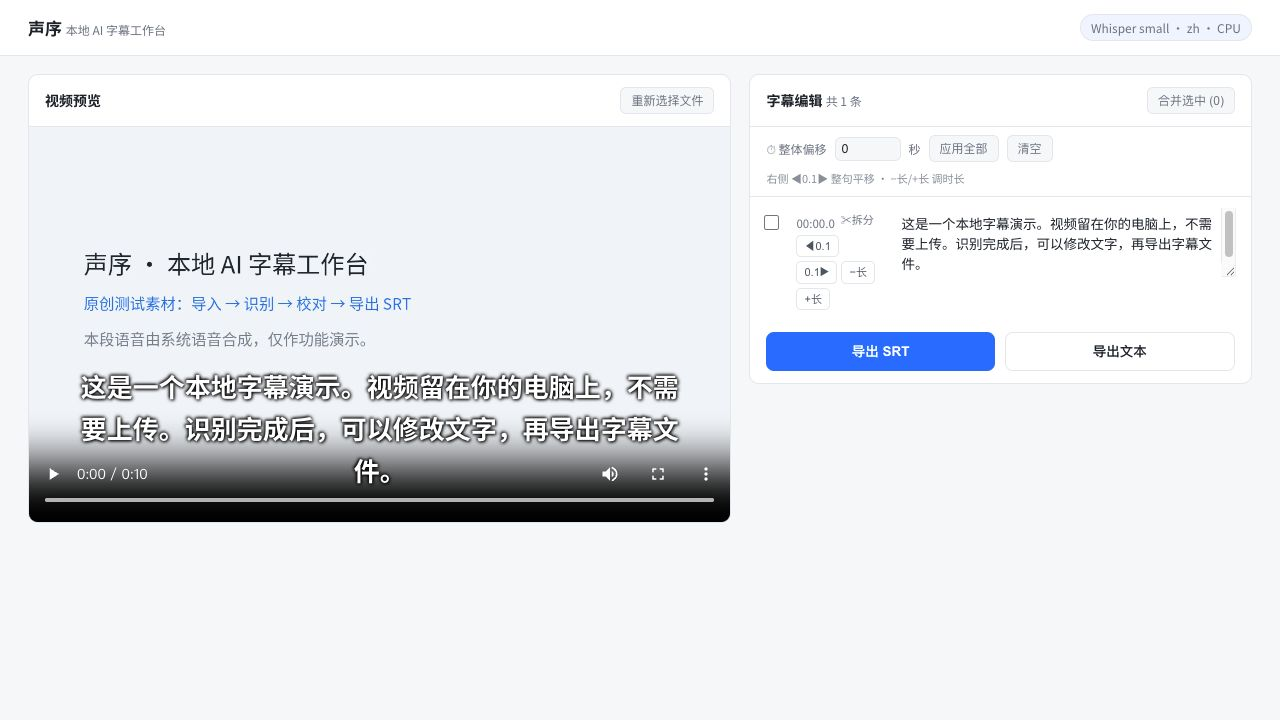
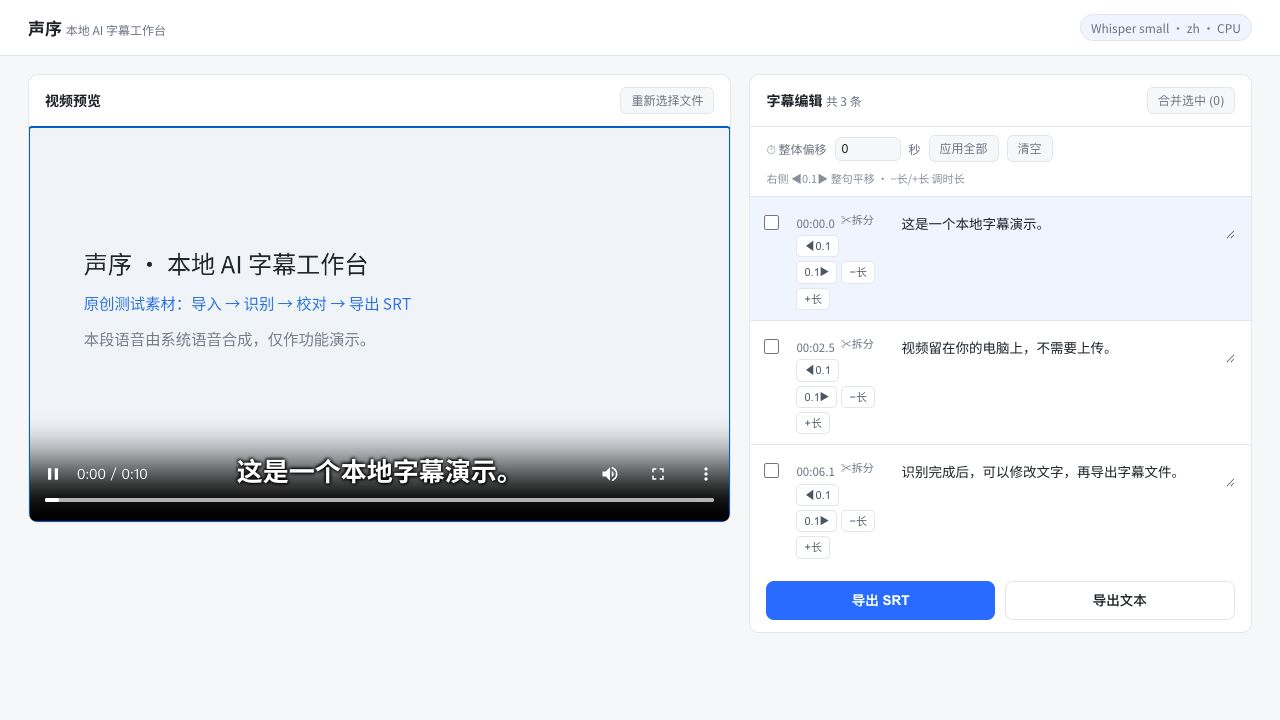
docs: show the actual four-step editing and export workflow

diff --git a/README.md b/README.md
@@ -6,6 +6,8 @@
 
 ![实际识别与校对界面](docs/screenshot.png)
 
+![操作步骤截图演示](docs/demo-flow.gif)
+
 视频在本机处理，无账号、无遥测。首次安装需要联网下载依赖和模型；模型准备好后识别可以离线使用。识别准确率和耗时取决于音频、模型和硬件，结果仍需校对。
 
 ## Windows / Mac 安装
@@ -33,7 +35,7 @@ py -3.12 tools\launch.py
 
 ## 真实演示材料
 
-`docs/demo-input.mp4` 是原创合成语音测试片段；`docs/demo-output.srt` 是通过本工具识别后，人工修改标点并由界面实际下载的字幕。截图来自同一流程，没有用静态假数据伪装识别成功。
+`docs/demo-input.mp4` 是原创合成语音测试片段；`docs/demo-output.srt` 是通过本工具识别后，人工修改标点、拆分为三句并由界面实际下载的字幕。截图来自同一流程，没有用静态假数据伪装识别成功。
 
 **本轮验证：Mac / Apple Silicon / Python 3.13，完成导入、本地识别、校对及 SRT/TXT 导出。Windows 测试配置已提供，云端尚未运行，不把它写成已通过。**
 

diff --git a/README.en.md b/README.en.md
@@ -6,6 +6,8 @@ Import video/audio, transcribe locally with Whisper, correct text and timing, an
 
 ![Real transcription and editing screen](docs/screenshot.png)
 
+![Real workflow screenshot steps](docs/demo-flow.gif)
+
 ## Windows and macOS
 
 Install Python 3.11 or 3.12 first (supported range: 3.10–3.13), download the ZIP and extract the complete folder. This is a source launcher, not a standalone EXE/DMG.
